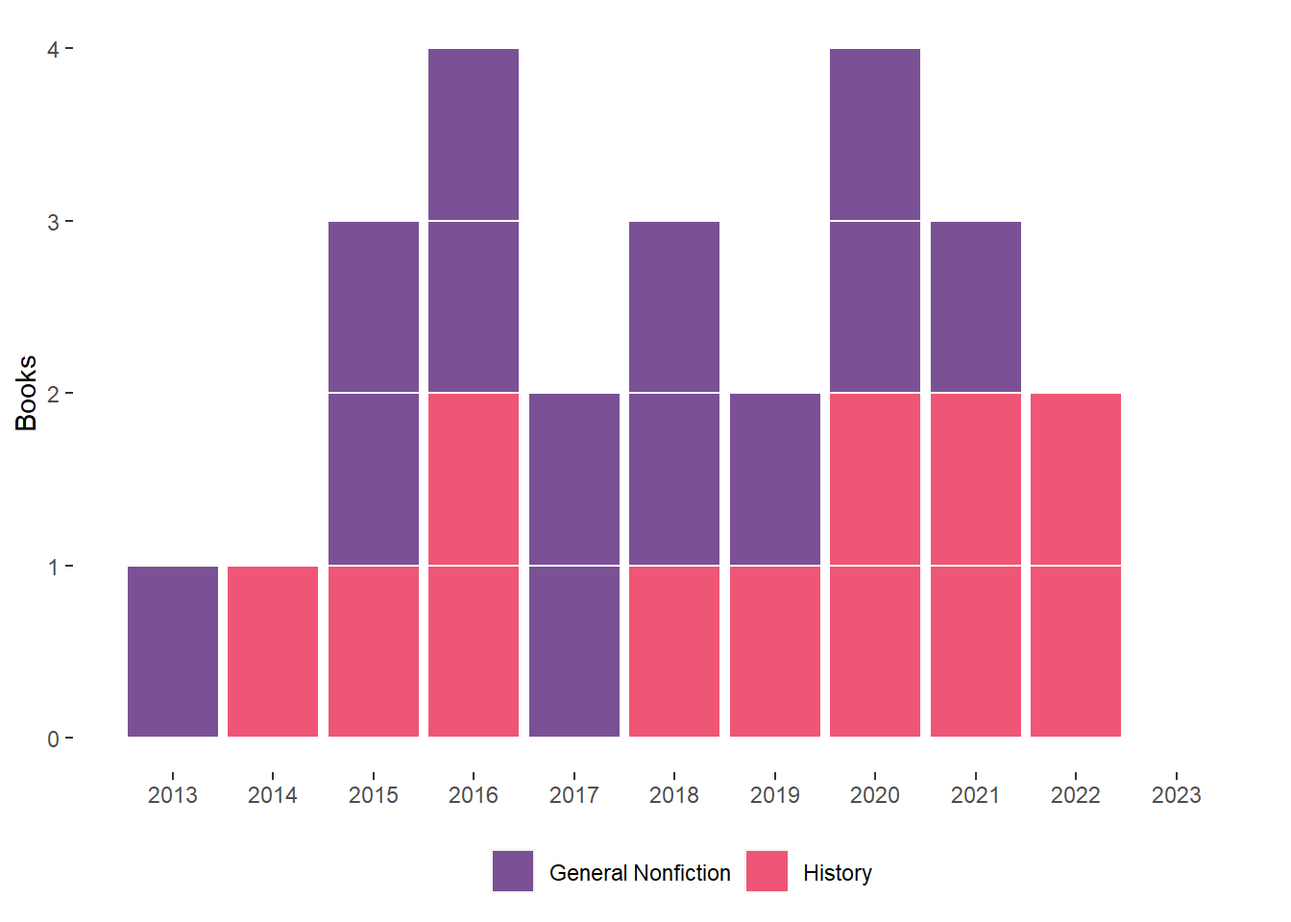
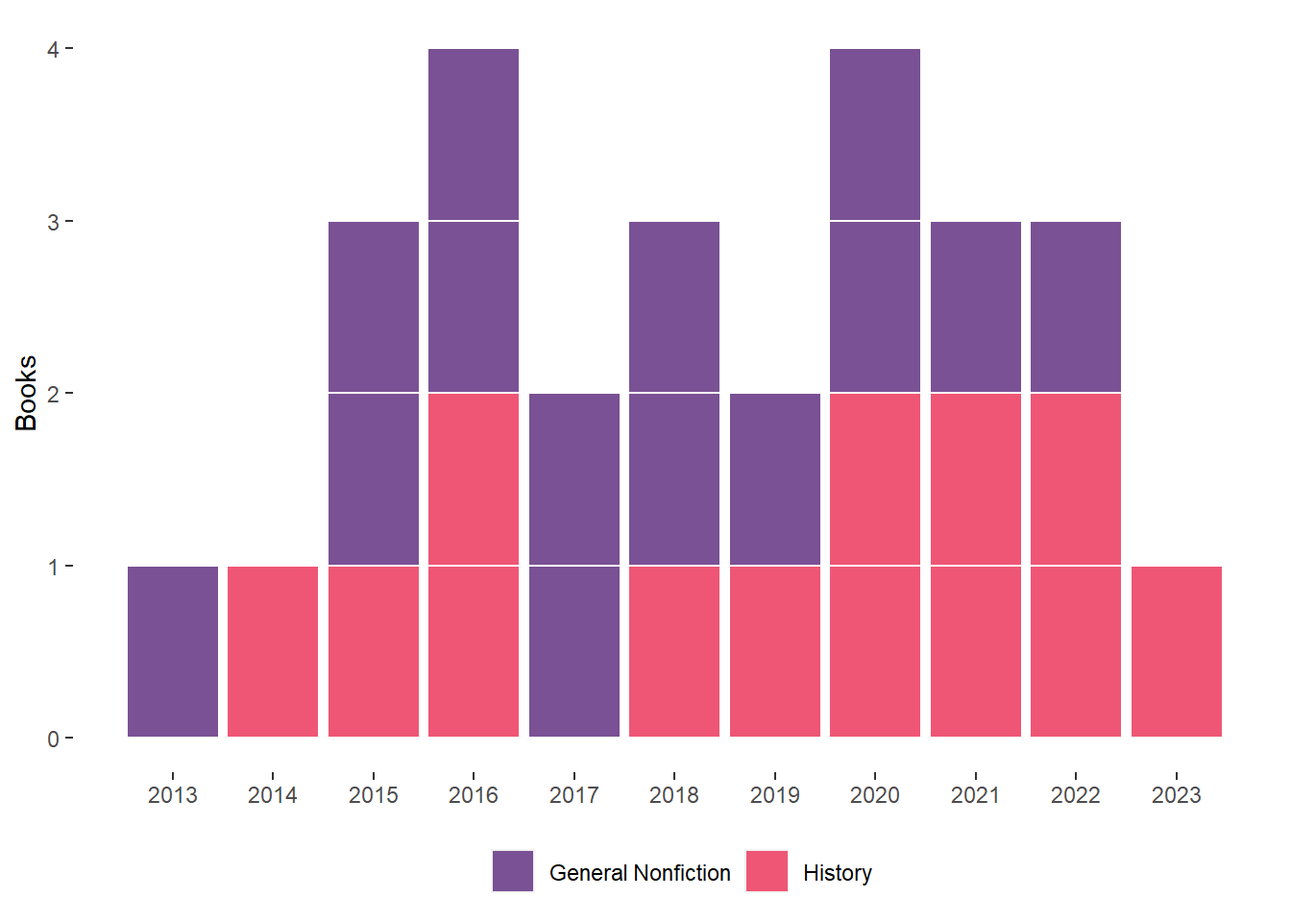
Finally updating with some 2023 data

Changed region(s): [[0.7812, 0.2188, 0.875, 0.4375], [0.875, 0.5938, 0.9688, 0.8125]]

diff --git a/pullitzer.html b/pullitzer.html
@@ -13,7 +13,7 @@
 
 <title>Pulitzer Progress</title>
 
-<script src="site_libs/header-attrs-2.20/header-attrs.js"></script>
+<script src="site_libs/header-attrs-2.23/header-attrs.js"></script>
 <script src="site_libs/jquery-3.6.0/jquery-3.6.0.min.js"></script>
 <meta name="viewport" content="width=device-width, initial-scale=1" />
 <link href="site_libs/bootstrap-3.3.5/css/bootstrap.min.css" rel="stylesheet" />
@@ -253,7 +253,7 @@ $(document).ready(function () {
   <a href="index.html">Home</a>
 </li>
 <li>
-  <a href="pullitzer.html">Pullitzer</a>
+  <a href="pullitzer.html">Pulitzer</a>
 </li>
 <li>
   <a href="authors.html">Authors</a>
@@ -295,8 +295,8 @@ class="section level5">
 <h2>The full list</h2>
 <p>These are the finalists and winners of general nonfiction and
 history, and my progress in reading them.</p>
-<div class="reactable html-widget html-fill-item-overflow-hidden html-fill-item" id="htmlwidget-d82d7c28b6cd96aabf77" style="width:auto;height:auto;"></div>
-<script type="application/json" data-for="htmlwidget-d82d7c28b6cd96aabf77">{"x":{"tag":{"name":"Reactable","attribs":{"data":{"year":[2023,2023,2023,2023,2023,2023,2023,2022,2022,2022,2022,2022,2022,2021,2021,2021,2021,2021,2021,2020,2020,2020,2020,2020,2020,2019,2019,2019,2019,2019,2019,2018,2018,2018,2018,2018,2018,2017,2017,2017,2017,2017,2017,2016,2016,2016,2016,2016,2016,2016,2015,2015,2015,2015,2015,2015,2014,2014,2014,2014,2014,2014,2013,2013,2013,2013,2013,2013,2012,2012,2012,2012,2012,2011,2011,2011,2011,2011,2011,2010,2010,2010],"short.title":["Freedom<92>s Dominion","Seeing Red","Watergate","His Name Is George Floyd","Kingdom of Characters","Sounds Wild and Broken","Under the Skin","Covered with Night","Cuba","Until Justice Be Done","Invisible Child","Home, Land, Security","The Family Roe","Franchise","The Three-Cornered War","The Deviant's War","Wilmington's Lie","Minor Feelings","Yellow Bird","Sweet Taste of Liberty ","Race for Profit","The End of the Myth ","The Undying","Solitary","Elderhood","Frederick Douglass ","American Eden ","Civilizing Torture ","Amity and Prosperity","In a Day's Work","Rising","The Gulf","Fear City","Hitler in Los Angeles ","Locking Up Our Own ","Notes on a Foreign Country ","The Evolution of Beauty","Blood in the Water ","Brothers at Arms","New England Bound","Evicted","In a Different Key ","The Politics of Mourning ","Custer's Trials","Marching Home","Target Tokyo","The Pentagon's Brain","Black Flags","Between the World and Me","If the Oceans Were Ink ","Encounters at the Heart of the World","An Empire on the Edge","Empire of Cotton","The Sixth Extinction","Age of Ambition","No Good Men Among the Living ","The Internal Enemy","A Dreadful Deceit","Command and Control","Toms River","The Blood Telegram","The Insurgents","Embers of War","Lincoln's Code","The Barbarous Years","Devil in the Grove","Behind the Beautiful Forevers","The Forest Unseen","Malcolm X","Empires, Nations & Families","Railroaded","The Eleventh Day","Minor Feelings","The Fiery Trial","Confederate Reckoning","Eden on the Charles","The Emperor of All Maladies","Empire of the Summer Moon","The Shallows","Lords of Finance","Empire of Liberty","Fordlandia"],"author":["Jefferson Cowie","Michael John Witgen","Garrett M. Graff","Robert Samuels and Toluse Olorunnipa","Jing Tsu","David George Haskell","Linda Villarosa","Nicole Eustace","Ada Ferrer","Kate Masur","Andrea Elliott","Carla Power","Joshua Prager","Marcia Chatelain","Megan Kate Nelson","Eric Cervini","David Zucchino","Cathy Park Hong","Sierra Crane Murdoch","W. Caleb McDaniel","Keeanga-Yamahtta Taylor","Greg Grandin","Anne Boyer","Albert Woodfox","Louise Aronson","David W. Blight","Victoria Johnson","W. Fitzhugh Brundage","Eliza Griswold","Bernice Yeung","Elizabeth Rush","Jack E. Davis","Kim Phillips-Fein","Steven J. Ross","James Forman Jr.","Suzy Hansen","Richard O. Prum","Heather Ann Thompson","Larrie D. Ferreiro","Wendy Warren","Matthew Desmond","John Donvan and Caren Zucker","Micki McElya","T.J. Stiles","Brian Matthew Jordan","James M. Scott","Annie Jacobsen","Joby Warrick","Ta-Nehisi Coates","Carla Power","Elizabeth A. Fenn","Nick Bunker","Steven Beckert","Elizabeth Kolbert","Evan Osnos","Anand Gopal","Alan Taylor","Jacqueline Jones","Eric Schlosser","Dan Fagin","Gary J. Bass","Fred Kaplan","Fredrik Logeval","John Fabian Witt","Bernard Bailyn","Gilbert King","Katherine Boo","David George Haskell","Manning Marable","Anne F. Hyde","Richard White","Anthony Summers and Robbyn Swan","Cathy Park Hong","Eric Foner","Stephanie McCurry","Michael Rawson","Siddhartha Mukherjee","S.C. Gwynne","Nicholas Carr","Liaquat Ahamed","Gordon S. Wood","Greg Grandin"],"read":["No","No","No","No","No","No","No","Yes","Yes","No","No","No","No","Yes","Yes","No","No","No","Yes","Yes","Yes","Yes","No","Yes","No","No","No","Yes","Yes","No","No","Yes","No","No","Yes","No","Yes","No","No","No","Yes","Yes","No","Yes","No","No","Yes","Yes","Yes","No","Yes","No","No","No","Yes","Yes","No","No","Yes","No","No","No","No","No","No","No","Yes","No","No","No","No","No","No","No","No","No","No","No","No","No","No","No"],"award":["Winner","Finalist","Finalist","Winner","Finalist","Finalist","Finalist","Winner","Winner","Finalist","Winner","Finalist","Finalist","Winner","Finalist","Finalist","Winner","Finalist","Finalist","Winner","Finalist","Winner","Winner","Finalist","Finalist","Winner","Finalist","Finalist","Winner","Finalist","Finalist","Winner","Finalist","Finalist","Winner","Finalist","Finalist","Winner","Finalist","Finalist","Winner","Finalist","Finalist","Winner","Finalist","Finalist","Finalist","Winner","Finalist","Finalist","Winner","Finalist","Finalist","Winner","Finalist","Finalist","Winner","Finalist","Finalist","Winner","Finalist","Finalist","Winner","Finalist","Finalist","Winner","Finalist","Finalist","Winner","Finalist","Finalist","Finalist","Finalist","Winner","Finalist","Finalist","Winner","Finalist","Finalist","Winner","Finalist","Finalist"],"category":["History","History","History","General Non-Fiction","General Non-Fiction","General Non-Fiction","General Non-Fiction","History","History","History","General Non-Fiction","General Non-Fiction","General Non-Fiction","History","History","History","General Non-Fiction","General Non-Fiction","General Non-Fiction","History","History","General Non-Fiction","General Non-Fiction","General Non-Fiction","General Non-Fiction","History","History","History","General Non-Fiction","General Non-Fiction","General Non-Fiction","History","History","History","General Non-Fiction","General Non-Fiction","General Non-Fiction","History","History","History","General Non-Fiction","General Non-Fiction","General Non-Fiction","History","History","History","History","General Non-Fiction","General Non-Fiction","General Non-Fiction","History","History","History","General Non-Fiction","General Non-Fiction","General Non-Fiction","History","History","History","General Non-Fiction","General Non-Fiction","General Non-Fiction","History","History","History","General Non-Fiction","General Non-Fiction","General Non-Fiction","History","History","History","History","General Non-Fiction","History","History","History","General Non-Fiction","General Non-Fiction","General Non-Fiction","History","History","History"]},"columns":[{"id":"year","name":"Year","type":"numeric"},{"id":"short.title","name":"Title","type":"character","minWidth":150},{"id":"author","name":"Author","type":"character"},{"id":"read","name":"Read","type":"character","cell":["❌","❌","❌","❌","❌","❌","❌","✔","✔","❌","❌","❌","❌","✔","✔","❌","❌","❌","✔","✔","✔","✔","❌","✔","❌","❌","❌","✔","✔","❌","❌","✔","❌","❌","✔","❌","✔","❌","❌","❌","✔","✔","❌","✔","❌","❌","✔","✔","✔","❌","✔","❌","❌","❌","✔","✔","❌","❌","✔","❌","❌","❌","❌","❌","❌","❌","✔","❌","❌","❌","❌","❌","❌","❌","❌","❌","❌","❌","❌","❌","❌","❌"],"maxWidth":75},{"id":"award","name":"Award","type":"character"},{"id":"category","name":"Category","type":"character"}],"defaultPageSize":20,"showSortable":true,"rowStyle":[null,null,null,null,null,null,null,{"fontWeight":"bold"},{"fontWeight":"bold"},null,null,null,null,{"fontWeight":"bold"},{"fontWeight":"bold"},null,null,null,{"fontWeight":"bold"},{"fontWeight":"bold"},{"fontWeight":"bold"},{"fontWeight":"bold"},null,{"fontWeight":"bold"},null,null,null,{"fontWeight":"bold"},{"fontWeight":"bold"},null,null,{"fontWeight":"bold"},null,null,{"fontWeight":"bold"},null,{"fontWeight":"bold"},null,null,null,{"fontWeight":"bold"},{"fontWeight":"bold"},null,{"fontWeight":"bold"},null,null,{"fontWeight":"bold"},{"fontWeight":"bold"},{"fontWeight":"bold"},null,{"fontWeight":"bold"},null,null,null,{"fontWeight":"bold"},{"fontWeight":"bold"},null,null,{"fontWeight":"bold"},null,null,null,null,null,null,null,{"fontWeight":"bold"},null,null,null,null,null,null,null,null,null,null,null,null,null,null,null],"dataKey":"57d18b60e51a5a2c1f5b2b9ec9840698"},"children":[]},"class":"reactR_markup"},"evals":[],"jsHooks":[]}</script>
+<div class="reactable html-widget html-fill-item-overflow-hidden html-fill-item" id="htmlwidget-8a5a7b7d3a234b84d89e" style="width:auto;height:auto;"></div>
+<script type="application/json" data-for="htmlwidget-8a5a7b7d3a234b84d89e">{"x":{"tag":{"name":"Reactable","attribs":{"data":{"year":[2023,2023,2023,2023,2023,2023,2023,2022,2022,2022,2022,2022,2022,2021,2021,2021,2021,2021,2021,2020,2020,2020,2020,2020,2020,2019,2019,2019,2019,2019,2019,2018,2018,2018,2018,2018,2018,2017,2017,2017,2017,2017,2017,2016,2016,2016,2016,2016,2016,2016,2015,2015,2015,2015,2015,2015,2014,2014,2014,2014,2014,2014,2013,2013,2013,2013,2013,2013,2012,2012,2012,2012,2012,2011,2011,2011,2011,2011,2011,2010,2010,2010],"short.title":["Freedom's Dominion","Seeing Red","Watergate","His Name Is George Floyd","Kingdom of Characters","Sounds Wild and Broken","Under the Skin","Covered with Night","Cuba","Until Justice Be Done","Invisible Child","Home, Land, Security","The Family Roe","Franchise","The Three-Cornered War","The Deviant's War","Wilmington's Lie","Minor Feelings","Yellow Bird","Sweet Taste of Liberty ","Race for Profit","The End of the Myth ","The Undying","Solitary","Elderhood","Frederick Douglass ","American Eden ","Civilizing Torture ","Amity and Prosperity","In a Day's Work","Rising","The Gulf","Fear City","Hitler in Los Angeles ","Locking Up Our Own ","Notes on a Foreign Country ","The Evolution of Beauty","Blood in the Water ","Brothers at Arms","New England Bound","Evicted","In a Different Key ","The Politics of Mourning ","Custer's Trials","Marching Home","Target Tokyo","The Pentagon's Brain","Black Flags","Between the World and Me","If the Oceans Were Ink ","Encounters at the Heart of the World","An Empire on the Edge","Empire of Cotton","The Sixth Extinction","Age of Ambition","No Good Men Among the Living","The Internal Enemy","A Dreadful Deceit","Command and Control","Toms River","The Blood Telegram","The Insurgents","Embers of War","Lincoln's Code","The Barbarous Years","Devil in the Grove","Behind the Beautiful Forevers","The Forest Unseen","Malcolm X","Empires, Nations & Families","Railroaded","The Eleventh Day","Minor Feelings","The Fiery Trial","Confederate Reckoning","Eden on the Charles","The Emperor of All Maladies","Empire of the Summer Moon","The Shallows","Lords of Finance","Empire of Liberty","Fordlandia"],"author":["Jefferson Cowie","Michael John Witgen","Garrett M. Graff","Robert Samuels and Toluse Olorunnipa","Jing Tsu","David George Haskell","Linda Villarosa","Nicole Eustace","Ada Ferrer","Kate Masur","Andrea Elliott","Carla Power","Joshua Prager","Marcia Chatelain","Megan Kate Nelson","Eric Cervini","David Zucchino","Cathy Park Hong","Sierra Crane Murdoch","W. Caleb McDaniel","Keeanga-Yamahtta Taylor","Greg Grandin","Anne Boyer","Albert Woodfox","Louise Aronson","David W. Blight","Victoria Johnson","W. Fitzhugh Brundage","Eliza Griswold","Bernice Yeung","Elizabeth Rush","Jack E. Davis","Kim Phillips-Fein","Steven J. Ross","James Forman Jr.","Suzy Hansen","Richard O. Prum","Heather Ann Thompson","Larrie D. Ferreiro","Wendy Warren","Matthew Desmond","John Donvan and Caren Zucker","Micki McElya","T.J. Stiles","Brian Matthew Jordan","James M. Scott","Annie Jacobsen","Joby Warrick","Ta-Nehisi Coates","Carla Power","Elizabeth A. Fenn","Nick Bunker","Steven Beckert","Elizabeth Kolbert","Evan Osnos","Anand Gopal","Alan Taylor","Jacqueline Jones","Eric Schlosser","Dan Fagin","Gary J. Bass","Fred Kaplan","Fredrik Logeval","John Fabian Witt","Bernard Bailyn","Gilbert King","Katherine Boo","David George Haskell","Manning Marable","Anne F. Hyde","Richard White","Anthony Summers and Robbyn Swan","Cathy Park Hong","Eric Foner","Stephanie McCurry","Michael Rawson","Siddhartha Mukherjee","S.C. Gwynne","Nicholas Carr","Liaquat Ahamed","Gordon S. Wood","Greg Grandin"],"read":["No","No","Yes","No","No","No","No","Yes","Yes","No","No","Yes","No","Yes","Yes","No","No","No","Yes","Yes","Yes","Yes","No","Yes","No","No","No","Yes","Yes","No","No","Yes","No","No","Yes","No","Yes","No","No","No","Yes","Yes","No","Yes","No","No","Yes","Yes","Yes","No","Yes","No","No","No","Yes","Yes","No","No","Yes","No","No","No","No","No","No","No","Yes","No","No","No","No","No","No","No","No","No","No","No","No","No","No","No"],"award":["Winner","Finalist","Finalist","Winner","Finalist","Finalist","Finalist","Winner","Winner","Finalist","Winner","Finalist","Finalist","Winner","Finalist","Finalist","Winner","Finalist","Finalist","Winner","Finalist","Winner","Winner","Finalist","Finalist","Winner","Finalist","Finalist","Winner","Finalist","Finalist","Winner","Finalist","Finalist","Winner","Finalist","Finalist","Winner","Finalist","Finalist","Winner","Finalist","Finalist","Winner","Finalist","Finalist","Finalist","Winner","Finalist","Finalist","Winner","Finalist","Finalist","Winner","Finalist","Finalist","Winner","Finalist","Finalist","Winner","Finalist","Finalist","Winner","Finalist","Finalist","Winner","Finalist","Finalist","Winner","Finalist","Finalist","Finalist","Finalist","Winner","Finalist","Finalist","Winner","Finalist","Finalist","Winner","Finalist","Finalist"],"category":["History","History","History","General Non-Fiction","General Non-Fiction","General Non-Fiction","General Non-Fiction","History","History","History","General Non-Fiction","General Non-Fiction","General Non-Fiction","History","History","History","General Non-Fiction","General Non-Fiction","General Non-Fiction","History","History","General Non-Fiction","General Non-Fiction","General Non-Fiction","General Non-Fiction","History","History","History","General Non-Fiction","General Non-Fiction","General Non-Fiction","History","History","History","General Non-Fiction","General Non-Fiction","General Non-Fiction","History","History","History","General Non-Fiction","General Non-Fiction","General Non-Fiction","History","History","History","History","General Non-Fiction","General Non-Fiction","General Non-Fiction","History","History","History","General Non-Fiction","General Non-Fiction","General Non-Fiction","History","History","History","General Non-Fiction","General Non-Fiction","General Non-Fiction","History","History","History","General Non-Fiction","General Non-Fiction","General Non-Fiction","History","History","History","History","General Non-Fiction","History","History","History","General Non-Fiction","General Non-Fiction","General Non-Fiction","History","History","History"]},"columns":[{"id":"year","name":"Year","type":"numeric"},{"id":"short.title","name":"Title","type":"character","minWidth":150},{"id":"author","name":"Author","type":"character"},{"id":"read","name":"Read","type":"character","cell":["❌","❌","✔","❌","❌","❌","❌","✔","✔","❌","❌","✔","❌","✔","✔","❌","❌","❌","✔","✔","✔","✔","❌","✔","❌","❌","❌","✔","✔","❌","❌","✔","❌","❌","✔","❌","✔","❌","❌","❌","✔","✔","❌","✔","❌","❌","✔","✔","✔","❌","✔","❌","❌","❌","✔","✔","❌","❌","✔","❌","❌","❌","❌","❌","❌","❌","✔","❌","❌","❌","❌","❌","❌","❌","❌","❌","❌","❌","❌","❌","❌","❌"],"maxWidth":75},{"id":"award","name":"Award","type":"character"},{"id":"category","name":"Category","type":"character"}],"defaultPageSize":20,"showSortable":true,"rowStyle":[null,null,{"fontWeight":"bold"},null,null,null,null,{"fontWeight":"bold"},{"fontWeight":"bold"},null,null,{"fontWeight":"bold"},null,{"fontWeight":"bold"},{"fontWeight":"bold"},null,null,null,{"fontWeight":"bold"},{"fontWeight":"bold"},{"fontWeight":"bold"},{"fontWeight":"bold"},null,{"fontWeight":"bold"},null,null,null,{"fontWeight":"bold"},{"fontWeight":"bold"},null,null,{"fontWeight":"bold"},null,null,{"fontWeight":"bold"},null,{"fontWeight":"bold"},null,null,null,{"fontWeight":"bold"},{"fontWeight":"bold"},null,{"fontWeight":"bold"},null,null,{"fontWeight":"bold"},{"fontWeight":"bold"},{"fontWeight":"bold"},null,{"fontWeight":"bold"},null,null,null,{"fontWeight":"bold"},{"fontWeight":"bold"},null,null,{"fontWeight":"bold"},null,null,null,null,null,null,null,{"fontWeight":"bold"},null,null,null,null,null,null,null,null,null,null,null,null,null,null,null],"dataKey":"00f867dedec182222fddd89c4e90ced0"},"children":[]},"class":"reactR_markup"},"evals":[],"jsHooks":[]}</script>
 </div>
 
 

diff --git a/index.html b/index.html
@@ -13,7 +13,7 @@
 
 <title>Book Reading</title>
 
-<script src="site_libs/header-attrs-2.22/header-attrs.js"></script>
+<script src="site_libs/header-attrs-2.23/header-attrs.js"></script>
 <script src="site_libs/jquery-3.6.0/jquery-3.6.0.min.js"></script>
 <meta name="viewport" content="width=device-width, initial-scale=1" />
 <link href="site_libs/bootstrap-3.3.5/css/bootstrap.min.css" rel="stylesheet" />
@@ -289,13 +289,13 @@ Pulitzer Prize winning work each year.</p>
 <h3>How I’m doing</h3>
 <p>Three years of steady progress and then a decline, and some mixed
 results in the last couple of years. It’s a journey.</p>
-<div class="plotly html-widget html-fill-item-overflow-hidden html-fill-item" id="htmlwidget-b216cf16d08382e2c70a" style="width:100%;height:480px;"></div>
-<script type="application/json" data-for="htmlwidget-b216cf16d08382e2c70a">{"x":{"visdat":{"262432e5598a":["function () ","plotlyVisDat"]},"cur_data":"262432e5598a","attrs":{"262432e5598a":{"x":{},"y":{},"mode":"lines+markers","fill":"tozeroy","alpha_stroke":1,"sizes":[10,100],"spans":[1,20],"type":"scatter"}},"layout":{"margin":{"b":40,"l":60,"t":25,"r":10},"shapes":[{"type":"line","x0":2017,"x1":2023,"y0":24,"y1":24,"line":{"width":2,"dash":"dot"}}],"yaxis":{"domain":[0,1],"automargin":true,"showline":false,"showticklabels":true,"tickcolor":"rgb(127,127,127)","ticks":"outside","zeroline":false,"range":[0,32],"dtick":4,"zerolinewidth":2,"title":"Books"},"xaxis":{"domain":[0,1],"automargin":true,"showline":true,"zerolinewidth":6,"title":"Year"},"hovermode":"closest","showlegend":false},"source":"A","config":{"modeBarButtonsToAdd":["hoverclosest","hovercompare"],"showSendToCloud":false,"responsive":true,"displayModeBar":false},"data":[{"fillcolor":"rgba(31,119,180,0.5)","x":[2017,2018,2019,2020,2021,2022,2023],"y":[18,23,23,9,10,21,7],"mode":"lines+markers","fill":"tozeroy","type":"scatter","marker":{"color":"rgba(31,119,180,1)","line":{"color":"rgba(31,119,180,1)"}},"error_y":{"color":"rgba(31,119,180,1)"},"error_x":{"color":"rgba(31,119,180,1)"},"line":{"color":"rgba(31,119,180,1)"},"xaxis":"x","yaxis":"y","frame":null}],"highlight":{"on":"plotly_click","persistent":false,"dynamic":false,"selectize":false,"opacityDim":0.20000000000000001,"selected":{"opacity":1},"debounce":0},"shinyEvents":["plotly_hover","plotly_click","plotly_selected","plotly_relayout","plotly_brushed","plotly_brushing","plotly_clickannotation","plotly_doubleclick","plotly_deselect","plotly_afterplot","plotly_sunburstclick"],"base_url":"https://plot.ly"},"evals":[],"jsHooks":[]}</script>
+<div class="plotly html-widget html-fill-item-overflow-hidden html-fill-item" id="htmlwidget-31f928eb7f491af7bf25" style="width:100%;height:480px;"></div>
+<script type="application/json" data-for="htmlwidget-31f928eb7f491af7bf25">{"x":{"visdat":{"27e41f1b4029":["function () ","plotlyVisDat"]},"cur_data":"27e41f1b4029","attrs":{"27e41f1b4029":{"x":{},"y":{},"mode":"lines+markers","fill":"tozeroy","alpha_stroke":1,"sizes":[10,100],"spans":[1,20],"type":"scatter"}},"layout":{"margin":{"b":40,"l":60,"t":25,"r":10},"shapes":[{"type":"line","x0":2017,"x1":2023,"y0":24,"y1":24,"line":{"width":2,"dash":"dot"}}],"yaxis":{"domain":[0,1],"automargin":true,"showline":false,"showticklabels":true,"tickcolor":"rgb(127,127,127)","ticks":"outside","zeroline":false,"range":[0,32],"dtick":4,"zerolinewidth":2,"title":"Books"},"xaxis":{"domain":[0,1],"automargin":true,"showline":true,"zerolinewidth":6,"title":"Year"},"hovermode":"closest","showlegend":false},"source":"A","config":{"modeBarButtonsToAdd":["hoverclosest","hovercompare"],"showSendToCloud":false,"responsive":true,"displayModeBar":false},"data":[{"fillcolor":"rgba(31,119,180,0.5)","x":[2017,2018,2019,2020,2021,2022,2023],"y":[18,23,23,9,10,21,13],"mode":"lines+markers","fill":"tozeroy","type":"scatter","marker":{"color":"rgba(31,119,180,1)","line":{"color":"rgba(31,119,180,1)"}},"error_y":{"color":"rgba(31,119,180,1)"},"error_x":{"color":"rgba(31,119,180,1)"},"line":{"color":"rgba(31,119,180,1)"},"xaxis":"x","yaxis":"y","frame":null}],"highlight":{"on":"plotly_click","persistent":false,"dynamic":false,"selectize":false,"opacityDim":0.20000000000000001,"selected":{"opacity":1},"debounce":0},"shinyEvents":["plotly_hover","plotly_click","plotly_selected","plotly_relayout","plotly_brushed","plotly_brushing","plotly_clickannotation","plotly_doubleclick","plotly_deselect","plotly_afterplot","plotly_sunburstclick"],"base_url":"https://plot.ly"},"evals":[],"jsHooks":[]}</script>
 </div>
 <div id="what-have-i-read-this-year" class="section level3">
 <h3>What have I read this year?</h3>
-<div class="reactable html-widget html-fill-item-overflow-hidden html-fill-item" id="htmlwidget-54fde5842b17b9589eb3" style="width:auto;height:auto;"></div>
-<script type="application/json" data-for="htmlwidget-54fde5842b17b9589eb3">{"x":{"tag":{"name":"Reactable","attribs":{"data":{"Order":[7,6,5,4,3,2,1],"Title":["Deep Learning","Down and Out in Paris and London","The Quiet American","Kitchen Confidential: Adventures in the Culinary Underbelly","The Seeds We Planted: Portraits of a Native Hawaiian Charter School","Empire of Pain: The Secret History of the Sackler Dynasty","Cuba: An American History"],"Author":["John D. Kelleher","George Orwell","Graham Greene","Anthony Bourdain","Noelani Goodyear-Ka’opua","Patrick Radden-Keefe","Ada Ferrer"]},"columns":[{"id":"Order","name":"Order","type":"numeric","maxWidth":75},{"id":"Title","name":"Title","type":"character"},{"id":"Author","name":"Author","type":"character","maxWidth":300}],"showSortable":true,"dataKey":"427ca1d252cc20a4faad7411c2f25fec"},"children":[]},"class":"reactR_markup"},"evals":[],"jsHooks":[]}</script>
+<div class="reactable html-widget html-fill-item-overflow-hidden html-fill-item" id="htmlwidget-c6138083b68b5b0dfd43" style="width:auto;height:auto;"></div>
+<script type="application/json" data-for="htmlwidget-c6138083b68b5b0dfd43">{"x":{"tag":{"name":"Reactable","attribs":{"data":{"Order":[13,12,11,10,9,8,7,6,5,4,3,2,1],"Title":["Empire Falls","Trust","All the King's Men","Contact","Home, Land, Security: Deradicalization and the Journey Back from Extremism","Watergate: A New History","Deep Learning","Down and Out in Paris and London","The Quiet American","Kitchen Confidential: Adventures in the Culinary Underbelly","The Seeds We Planted: Portraits of a Native Hawaiian Charter School","Empire of Pain: The Secret History of the Sackler Dynasty","Cuba: An American History"],"Author":["Richard Russo","Hernan Diaz","Robert Penn Warren","Carl Sagan","Carla Power","Garrett M. Graff","John D. Kelleher","George Orwell","Graham Greene","Anthony Bourdain","Noelani Goodyear-Ka’opua","Patrick Radden-Keefe","Ada Ferrer"]},"columns":[{"id":"Order","name":"Order","type":"numeric","maxWidth":75},{"id":"Title","name":"Title","type":"character"},{"id":"Author","name":"Author","type":"character","maxWidth":300}],"showSortable":true,"dataKey":"3145ae3d4c98a7c7754ab110609de606"},"children":[]},"class":"reactR_markup"},"evals":[],"jsHooks":[]}</script>
 </div>
 
 

diff --git a/authors.html b/authors.html
@@ -13,7 +13,7 @@
 
 <title>Authors</title>
 
-<script src="site_libs/header-attrs-2.22/header-attrs.js"></script>
+<script src="site_libs/header-attrs-2.23/header-attrs.js"></script>
 <script src="site_libs/jquery-3.6.0/jquery-3.6.0.min.js"></script>
 <meta name="viewport" content="width=device-width, initial-scale=1" />
 <link href="site_libs/bootstrap-3.3.5/css/bootstrap.min.css" rel="stylesheet" />
@@ -253,7 +253,7 @@ $(document).ready(function () {
   <a href="index.html">Home</a>
 </li>
 <li>
-  <a href="pullitzer.html">Pullitzer</a>
+  <a href="pullitzer.html">Pulitzer</a>
 </li>
 <li>
   <a href="authors.html">Authors</a>
@@ -280,8 +280,8 @@ reading. Ideally, the books I read will not only entertain me, but
 expand my worldview. There are lots of ways to think and measure that,
 but a simple one is to track the backgrounds of the authors, so I’m
 starting there.</p>
-<div class="plotly html-widget html-fill-item-overflow-hidden html-fill-item" id="htmlwidget-fdcc9922b92096c32747" style="width:100%;height:480px;"></div>
-<script type="application/json" data-for="htmlwidget-fdcc9922b92096c32747">{"x":{"visdat":{"386815866300":["function () ","plotlyVisDat"]},"cur_data":"386815866300","attrs":{"386815866300":{"x":{},"y":{},"mode":"lines+markers","name":"Authors of Color","alpha_stroke":1,"sizes":[10,100],"spans":[1,20],"type":"scatter"},"386815866300.1":{"x":{},"y":{},"mode":"lines+markers","name":"Female Authors","alpha_stroke":1,"sizes":[10,100],"spans":[1,20],"type":"scatter","inherit":true}},"layout":{"margin":{"b":40,"l":60,"t":25,"r":10},"legend":{"orientation":"h"},"yaxis":{"domain":[0,1],"automargin":true,"title":"Percentage"},"xaxis":{"domain":[0,1],"automargin":true,"title":""},"hovermode":"closest","showlegend":true},"source":"A","config":{"modeBarButtonsToAdd":["hoverclosest","hovercompare"],"showSendToCloud":false,"displayModeBar":false},"data":[{"x":[2017,2018,2019,2020,2021,2022,2023],"y":[22.199999999999999,8.6999999999999993,17.399999999999999,33.299999999999997,40,19,28.600000000000001],"mode":"lines+markers","name":"Authors of Color","type":"scatter","marker":{"color":"rgba(31,119,180,1)","line":{"color":"rgba(31,119,180,1)"}},"error_y":{"color":"rgba(31,119,180,1)"},"error_x":{"color":"rgba(31,119,180,1)"},"line":{"color":"rgba(31,119,180,1)"},"xaxis":"x","yaxis":"y","frame":null},{"x":[2017,2018,2019,2020,2021,2022,2023],"y":[22.199999999999999,26.100000000000001,30.399999999999999,11.1,50,38.100000000000001,28.600000000000001],"mode":"lines+markers","name":"Female Authors","type":"scatter","marker":{"color":"rgba(255,127,14,1)","line":{"color":"rgba(255,127,14,1)"}},"error_y":{"color":"rgba(255,127,14,1)"},"error_x":{"color":"rgba(255,127,14,1)"},"line":{"color":"rgba(255,127,14,1)"},"xaxis":"x","yaxis":"y","frame":null}],"highlight":{"on":"plotly_click","persistent":false,"dynamic":false,"selectize":false,"opacityDim":0.20000000000000001,"selected":{"opacity":1},"debounce":0},"shinyEvents":["plotly_hover","plotly_click","plotly_selected","plotly_relayout","plotly_brushed","plotly_brushing","plotly_clickannotation","plotly_doubleclick","plotly_deselect","plotly_afterplot","plotly_sunburstclick"],"base_url":"https://plot.ly"},"evals":[],"jsHooks":[]}</script>
+<div class="plotly html-widget html-fill-item-overflow-hidden html-fill-item" id="htmlwidget-215d1744a7b1d9b05024" style="width:100%;height:480px;"></div>
+<script type="application/json" data-for="htmlwidget-215d1744a7b1d9b05024">{"x":{"visdat":{"29f052c352c5":["function () ","plotlyVisDat"]},"cur_data":"29f052c352c5","attrs":{"29f052c352c5":{"x":{},"y":{},"mode":"lines+markers","name":"Authors of Color","alpha_stroke":1,"sizes":[10,100],"spans":[1,20],"type":"scatter"},"29f052c352c5.1":{"x":{},"y":{},"mode":"lines+markers","name":"Female Authors","alpha_stroke":1,"sizes":[10,100],"spans":[1,20],"type":"scatter","inherit":true}},"layout":{"margin":{"b":40,"l":60,"t":25,"r":10},"legend":{"orientation":"h"},"yaxis":{"domain":[0,1],"automargin":true,"title":"Percentage"},"xaxis":{"domain":[0,1],"automargin":true,"title":""},"hovermode":"closest","showlegend":true},"source":"A","config":{"modeBarButtonsToAdd":["hoverclosest","hovercompare"],"showSendToCloud":false,"displayModeBar":false},"data":[{"x":[2017,2018,2019,2020,2021,2022,2023],"y":[22.199999999999999,8.6999999999999993,17.399999999999999,33.299999999999997,40,19,23.100000000000001],"mode":"lines+markers","name":"Authors of Color","type":"scatter","marker":{"color":"rgba(31,119,180,1)","line":{"color":"rgba(31,119,180,1)"}},"error_y":{"color":"rgba(31,119,180,1)"},"error_x":{"color":"rgba(31,119,180,1)"},"line":{"color":"rgba(31,119,180,1)"},"xaxis":"x","yaxis":"y","frame":null},{"x":[2017,2018,2019,2020,2021,2022,2023],"y":[22.199999999999999,26.100000000000001,30.399999999999999,11.1,50,38.100000000000001,23.100000000000001],"mode":"lines+markers","name":"Female Authors","type":"scatter","marker":{"color":"rgba(255,127,14,1)","line":{"color":"rgba(255,127,14,1)"}},"error_y":{"color":"rgba(255,127,14,1)"},"error_x":{"color":"rgba(255,127,14,1)"},"line":{"color":"rgba(255,127,14,1)"},"xaxis":"x","yaxis":"y","frame":null}],"highlight":{"on":"plotly_click","persistent":false,"dynamic":false,"selectize":false,"opacityDim":0.20000000000000001,"selected":{"opacity":1},"debounce":0},"shinyEvents":["plotly_hover","plotly_click","plotly_selected","plotly_relayout","plotly_brushed","plotly_brushing","plotly_clickannotation","plotly_doubleclick","plotly_deselect","plotly_afterplot","plotly_sunburstclick"],"base_url":"https://plot.ly"},"evals":[],"jsHooks":[]}</script>
 
 
 

diff --git a/site_libs/header-attrs-2.23/header-attrs.js b/site_libs/header-attrs-2.23/header-attrs.js
@@ -1,0 +1,12 @@
+// Pandoc 2.9 adds attributes on both header and div. We remove the former (to
+// be compatible with the behavior of Pandoc < 2.8).
+document.addEventListener('DOMContentLoaded', function(e) {
+  var hs = document.querySelectorAll("div.section[class*='level'] > :first-child");
+  var i, h, a;
+  for (i = 0; i < hs.length; i++) {
+    h = hs[i];
+    if (!/^h[1-6]$/i.test(h.tagName)) continue;  // it should be a header h1-h6
+    a = h.attributes;
+    while (a.length > 0) h.removeAttribute(a[0].name);
+  }
+});
